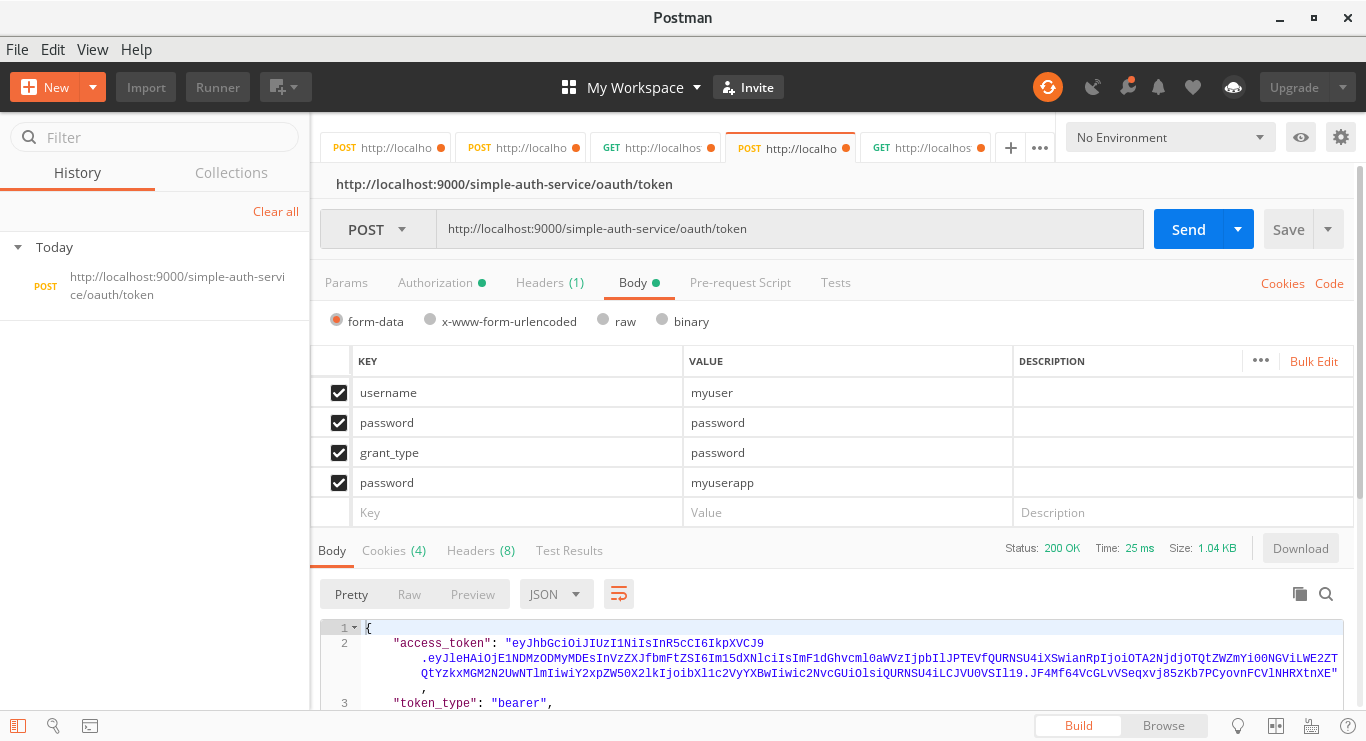
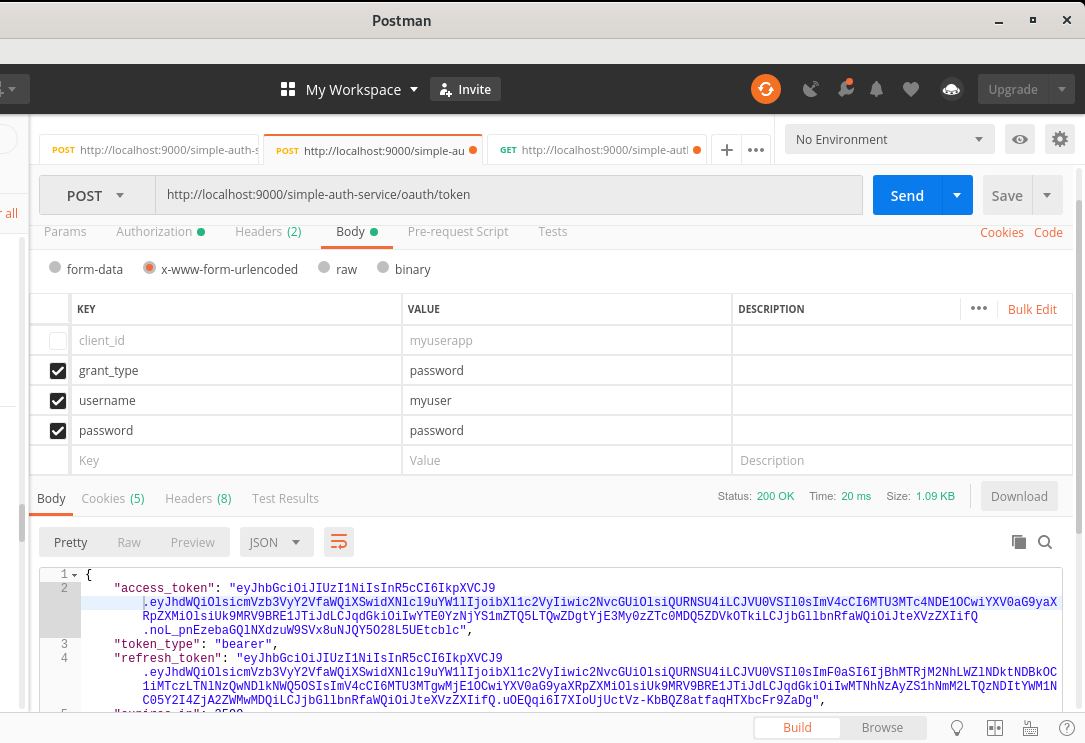
Adjust to create a single authentication entry point for a grant_type password login.

diff --git a/src/main/java/com/sample/tnfigueiredo/service/impl/ClientDetailServiceImpl.java b/src/main/java/com/sample/tnfigueiredo/service/impl/ClientDetailServiceImpl.java
@@ -3,14 +3,17 @@
  */
 package com.sample.tnfigueiredo.service.impl;
 
-import java.util.Arrays;
+import javax.annotation.Resource;
 
+import org.springframework.security.core.userdetails.UserDetails;
+import org.springframework.security.core.userdetails.UserDetailsService;
 import org.springframework.security.oauth2.provider.ClientDetails;
 import org.springframework.security.oauth2.provider.ClientDetailsService;
 import org.springframework.security.oauth2.provider.ClientRegistrationException;
 import org.springframework.security.oauth2.provider.NoSuchClientException;
-import org.springframework.security.oauth2.provider.client.BaseClientDetails;
 import org.springframework.stereotype.Service;
+
+import com.sample.tnfigueiredo.util.ClientDetailsUserWrapper;
 
 /**
  * Service representation for validation of Resource Owner user
@@ -21,16 +24,13 @@ import org.springframework.stereotype.Service;
 @Service(value = "clientDetailService")
 public class ClientDetailServiceImpl implements ClientDetailsService {
 
-	static final String CLIEN_ID = "myuserapp";
-	static final String CLIENT_SECRET = "myusersecret";
-	static final String RESOURCE_ID = "resource_id";
-	static final String GRANT_TYPE_PASSWORD = "password";
-	static final String AUTHORIZATION_CODE = "authorization_code";
-	static final String REFRESH_TOKEN = "refresh_token";
-	static final String SCOPE_ADMIN = "ADMIN";
-	static final String SCOPE_USER = "USER";
-	static final int ACCESS_TOKEN_VALIDITY_SECONDS = 1*60*60;
-	static final int FREFRESH_TOKEN_VALIDITY_SECONDS = 6*60*60;
+	/*
+	 * Service for recovering user information for authentication.
+	 * 
+	 */
+	@Resource(name = "userService")
+	private UserDetailsService userDetailsService;
+
 	
 	/* (non-Javadoc)
 	 * @see org.springframework.security.oauth2.provider.ClientDetailsService#loadClientByClientId(java.lang.String)
@@ -38,19 +38,15 @@ public class ClientDetailServiceImpl implements ClientDetailsService {
 	@Override
 	public ClientDetails loadClientByClientId(String clientId) throws ClientRegistrationException {
 		
-		if(!clientId.equals("myuserapp")) {
+		UserDetails user = this.userDetailsService.loadUserByUsername(clientId);
+		
+		if(user == null) {
 			throw new NoSuchClientException("No client found with id = " + clientId);
 		}
 		
-		BaseClientDetails baseClientDetails = new BaseClientDetails();
-		baseClientDetails.setClientId(clientId);
-		baseClientDetails.setClientSecret("{noop}"+CLIENT_SECRET);
-		baseClientDetails.setAuthorizedGrantTypes(Arrays.asList(GRANT_TYPE_PASSWORD, AUTHORIZATION_CODE, REFRESH_TOKEN) );
-		baseClientDetails.setScope(Arrays.asList(SCOPE_ADMIN, SCOPE_USER));
-		baseClientDetails.setResourceIds(Arrays.asList(RESOURCE_ID));
-		baseClientDetails.setAccessTokenValiditySeconds(ACCESS_TOKEN_VALIDITY_SECONDS);
-		baseClientDetails.setRefreshTokenValiditySeconds(FREFRESH_TOKEN_VALIDITY_SECONDS);
-		return baseClientDetails;
+		ClientDetailsUserWrapper clientDetailsUserWrapper = new ClientDetailsUserWrapper(user);
+		
+		return clientDetailsUserWrapper.getClientDetails();
 	}
 
 }

diff --git a/src/main/java/com/sample/tnfigueiredo/util/ClientDetailsUserWrapper.java b/src/main/java/com/sample/tnfigueiredo/util/ClientDetailsUserWrapper.java
@@ -1,0 +1,57 @@
+/**
+ * 
+ */
+package com.sample.tnfigueiredo.util;
+
+import java.util.Arrays;
+
+import org.springframework.security.core.userdetails.UserDetails;
+import org.springframework.security.oauth2.provider.ClientDetails;
+import org.springframework.security.oauth2.provider.client.BaseClientDetails;
+
+/**
+ * A Wrapper for a {@link UserDetails} and return its information as a {@link ClientDetails} object.
+ * 
+ * @author tnfigueiredo
+ *
+ */
+public class ClientDetailsUserWrapper {
+	
+	static final String RESOURCE_ID = "resource_id";
+	static final String GRANT_TYPE_PASSWORD = "password";
+	static final String AUTHORIZATION_CODE = "authorization_code";
+	static final String REFRESH_TOKEN = "refresh_token";
+	static final String SCOPE_ADMIN = "ADMIN";
+	static final String SCOPE_USER = "USER";
+	static final int ACCESS_TOKEN_VALIDITY_SECONDS = 1*60*60;
+	static final int REFRESH_TOKEN_VALIDITY_SECONDS = 6*60*60;
+	
+	private UserDetails user;
+	private BaseClientDetails baseClientDetails;
+	
+	public ClientDetailsUserWrapper(UserDetails user) {
+		this.user = user;
+		this.baseClientDetails = new BaseClientDetails();
+		loadUserInfo();
+	}
+	
+	public void refreshUserInfo(UserDetails user) {
+		this.user = user;
+		loadUserInfo();
+	}
+	
+	public ClientDetails getClientDetails() {
+		return this.baseClientDetails;
+	}
+	
+	private void loadUserInfo() {
+		this.baseClientDetails.setClientId(this.user.getUsername());
+		this.baseClientDetails.setClientSecret(this.user.getPassword());
+		this.baseClientDetails.setAuthorizedGrantTypes(Arrays.asList(GRANT_TYPE_PASSWORD, AUTHORIZATION_CODE, REFRESH_TOKEN) );
+		this.baseClientDetails.setScope(Arrays.asList(SCOPE_ADMIN, SCOPE_USER));
+		this.baseClientDetails.setResourceIds(Arrays.asList(RESOURCE_ID));
+		this.baseClientDetails.setAccessTokenValiditySeconds(ACCESS_TOKEN_VALIDITY_SECONDS);
+		this.baseClientDetails.setRefreshTokenValiditySeconds(REFRESH_TOKEN_VALIDITY_SECONDS);
+	}
+
+}

diff --git a/README.md b/README.md
@@ -1,12 +1,24 @@
 # spring-cloud-simple-authorization-service
 
-This project has the objective to present a sample for a simple authorization server using OAuth flows to authenticate and an user for an application. In this sample I'll not get into OAuth 2.0 details. It is easy to find articles to explain OAuth 2.0 flows (here is a suggestion: https://connect2id.com/learn/oauth-2).
+This project has the objective to present a sample for a simple authorization server using OAuth flows to authenticate and an user for an application. 
+In this sample I'll not get into OAuth 2.0 details. It is easy to find articles to explain OAuth 2.0 flows (here is a suggestion: 
+https://connect2id.com/learn/oauth-2).
 
-The main idea is to use a grant_type password to get access to a JWT token as an access token. This token gonna be used as a bearer token into requests to grant access to some protected resources. For this demonstration the authorization server gonna be a simple Spring Cloud app and for represent a client requests gonna be done by Postman to represent the access token request and an authorized request using a bearer token.
+The main idea is to use a grant_type password to get access to a JWT token as an access token. This token gonna be used as a bearer token into requests 
+to grant access to some protected resources. For this demonstration the authorization server gonna be a simple Spring Cloud app and for represent a 
+client requests gonna be done by Postman to represent the access token request and an authorized request using a bearer token.
+
+It is important to reinforce that authorization and authentication are different responsibilities. Into this sample the component do both responsibilities. 
+When we are requesting an access token we are doing the authentication responsibility. Our user plays at the same time the role as application user 
+and as resource client. After getting the access token, he plays the role as resource client and uses its access token (as an authenticated user) 
+to access the user resource.
+
 
 ## Approach
 
-The objective of this sample is present baby steps with details of configurations and Spring Cloud resources used to achieve the final goal of providing an authorization server. The example is far of represent a scenario of production environment, but will make clear why some resources are being used. It might be a starting point.
+The objective of this sample is present baby steps with details of configurations and Spring Cloud resources used to achieve the final goal of
+ providing an authorization server. The example is far of representing a scenario of production environment, but will make clear why some resources 
+ are being used. It might be a starting point.
 
 The OAuth 2.0 flow used for this example is represented above:
 
@@ -16,7 +28,8 @@ The OAuth 2.0 flow used for this example is represented above:
 
 ## The application
 
-The application is composed a set of classes to represent a simple authorization and resource server, like a sample for an account service that has the responsibility of authorize users and deal with users information. The project structure is organized as explained above:
+The application is composed a set of classes to represent a simple authorization and resource server, like a sample for an account service that has 
+the responsibility of authorize users and deal with users information. The project structure is organized as explained above:
 
  - A main class that starts the Spring Cloud app;
  - A web security configuration class;
@@ -41,7 +54,8 @@ This configuration class [ResourceServerConfig](https://raw.githubusercontent.co
 
 ## Usage
 
-For this example, we gonna avoid get into client coding details. The focus is about the request for the access token and the resource server request with a valid access token.
+For this example, we gonna avoid get into client coding details. The focus is about the request for the access token and the resource server request 
+with a valid access token.
 
 ### Access Token:
 
@@ -50,11 +64,11 @@ To get an access token, here is an example with CURL and with Postman:
 CURL:
 ```CURL
     curl -X POST \
-    http://localhost:9000/simple-auth-service/oauth/token \
-    -H "Authorization: Basic myuserapp:myusersecret"
-    -H 'Content-Type: application/x-www-form-urlencoded' \
-    -H 'cache-control: no-cache' \
-    -d 'username=myuser&password=password&grant_type=password&client_id=myuserapp'
+  	http://localhost:9000/simple-auth-service/oauth/token \
+  	-H 'Content-Type: application/x-www-form-urlencoded' \
+  	-H 'Postman-Token: 74d4f8d4-3ac4-4a77-9e1c-8a64b70b86a2' \
+  	-H 'cache-control: no-cache' \
+  	-d 'grant_type=password&username=myuser&password=password'
 ```
 
 Postman:
